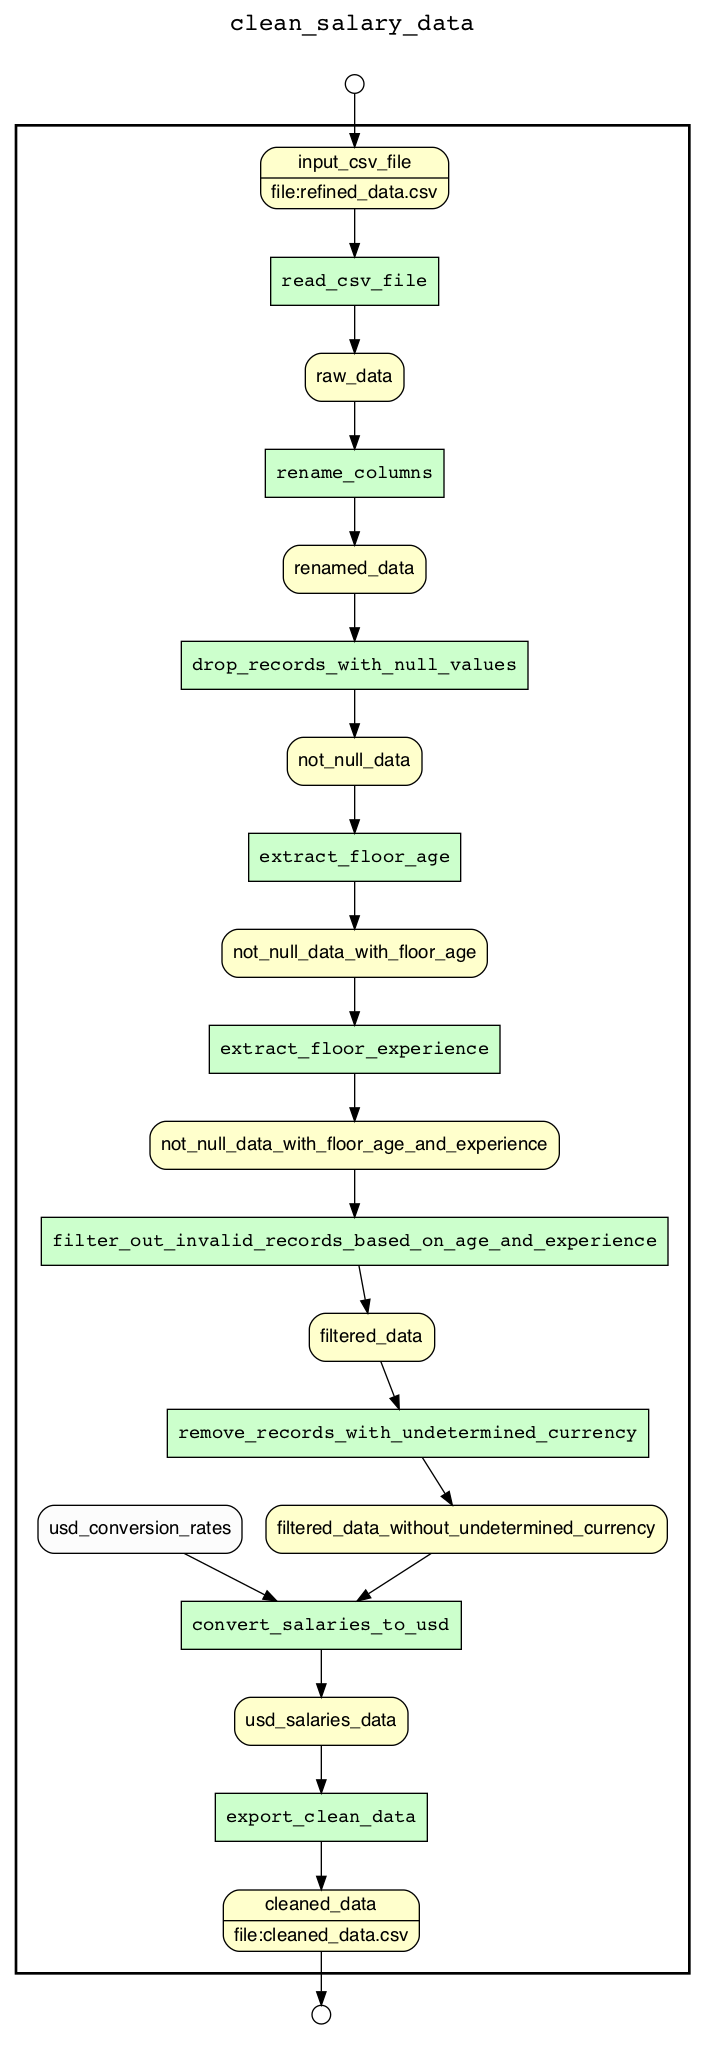
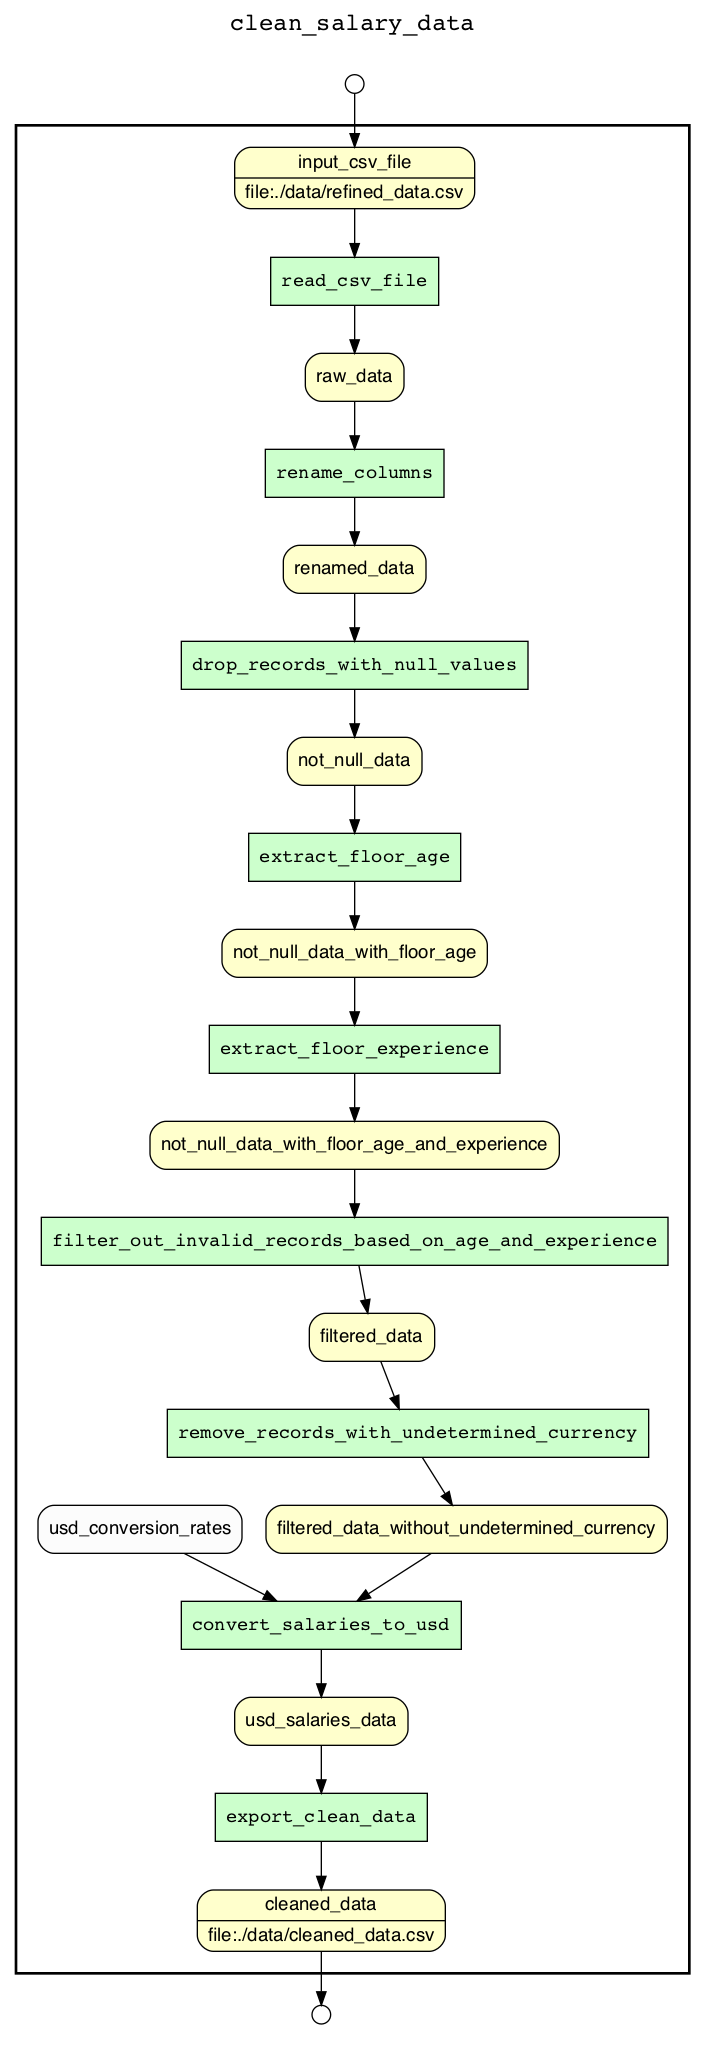
Rerun provenance graph generation

Changed region(s): [[0.2809, 0.9005, 0.6553, 0.9626], [0.6241, 0.0621, 0.6865, 0.1242], [0.3121, 0.0621, 0.3745, 0.1242]]

diff --git a/clean.py b/clean.py
@@ -5,11 +5,11 @@ INPUT_CSV_FILE = './data/refined_data.csv' # From OpenRefine
 OUTPUT_CSV_FILE = './data/cleaned_data.csv'
 
 # @BEGIN clean_salary_data
-# @IN input_csv_file @URI file:refined_data.csv
-# @OUT cleaned_data @URI file:cleaned_data.csv
+# @IN input_csv_file @URI file:./data/refined_data.csv
+# @OUT cleaned_data @URI file:./data/cleaned_data.csv
 
 # @BEGIN read_csv_file
-# @IN input_csv_file @URI file:{file_path}
+# @IN input_csv_file @URI file:./data/refined_data.csv
 # @OUT raw_data
 print("\n\nStep 1: Reading input CSV")
 print("-------------------------------------------")
@@ -111,7 +111,7 @@ filtered_data["Salary_USD"] = filtered_data.apply(lambda row: usd_conversion_rat
 
 # @BEGIN export_clean_data
 # @IN usd_salaries_data
-# @OUT cleaned_data @URI file:cleaned_data.csv
+# @OUT cleaned_data @URI file:./data/cleaned_data.csv
 print("\n\nStep 7: Exporting Cleaned Data")
 print("-------------------------------------------")
 cleaned_data = filtered_data[[
